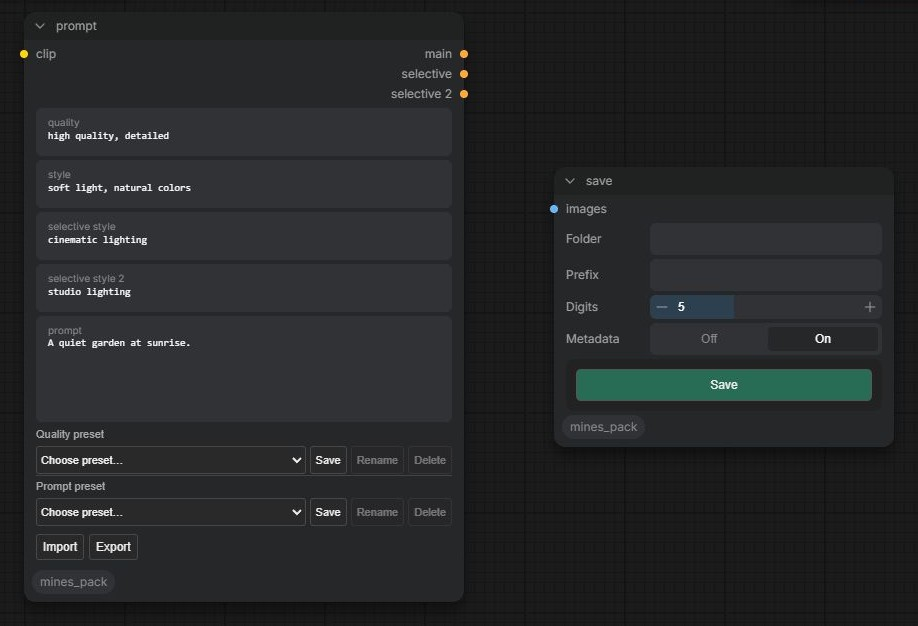
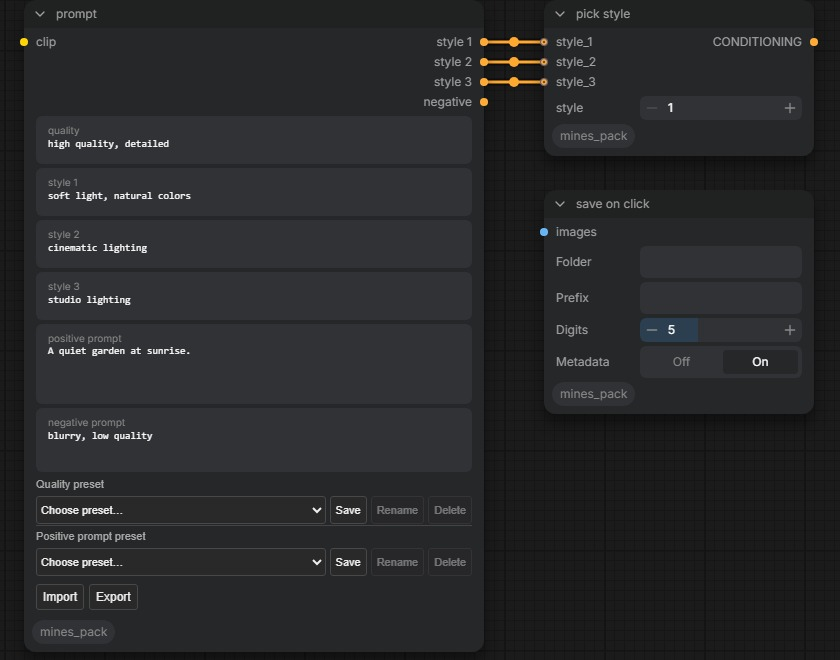
Shorten the README and move details to docs
Add docs/setup.md and docs/nodes.md, retake the screenshot with the current node names, update the package description and the links to mines-I2V.

diff --git a/__init__.py b/__init__.py
@@ -1,4 +1,4 @@
-"""mine's pack: Prompt Sections, manual numbered PNG saving, and the nodes for the Mine's video workflows."""
+"""mine's pack: prompt sections, save on click, inpaint crop and stitch, and the nodes for the Mine's video workflows."""
 from .prompt import PromptSectionsCond, MinesPickStyle
 from .save import NumberedPNGSaver
 from .video import MinesSVIProEndFrame, MinesH3FrameGuides

diff --git a/video.py b/video.py
@@ -1,4 +1,4 @@
-"""Image-to-video helpers for the Mine's video workflows (github.com/kuromatcha/mines-img2vid).
+"""Image-to-video helpers for the Mine's video workflows (github.com/kuromatcha/mines-I2V).
 
 - SVIPro end frame: KJNodes' Wan Image To Video SVIPro, plus an optional end image that is placed on the last
   frame the same way the core Wan First-Last-Frame to Video node does it.

diff --git a/color.py b/color.py
@@ -1,4 +1,4 @@
-"""Color fixes for generated video (Mine's video workflows, github.com/kuromatcha/mines-img2vid).
+"""Color fixes for generated video (Mine's video workflows, github.com/kuromatcha/mines-I2V).
 
 - color drift fix: removes slow color drift over a clip so later frames keep the tone of the first frame; in a
   loop the end matches the start.

diff --git a/docs/nodes.md b/docs/nodes.md
@@ -1,0 +1,153 @@
+# Nodes
+
+All nodes are under **mine's pack** in the node menu.
+
+- [prompt](#prompt) · [pick style](#pick-style) · [save on click](#save-on-click)
+- [inpaint crop](#inpaint-crop) · [inpaint stitch](#inpaint-stitch)
+- [SVIPro end frame](#svipro-end-frame) · [H3 frame guides](#h3-frame-guides) · [color drift fix](#color-drift-fix) · [keep source colors](#keep-source-colors)
+- [Extras](#extras)
+
+## prompt
+
+One node for the whole prompt, split into fields.
+
+| Input | Notes |
+|---|---|
+| `clip` | The text encoder. |
+| `quality` | Shared by all three styles. One line. |
+| `style 1`, `style 2`, `style 3` | One line each. Style 3 is optional. |
+| `positive prompt` | Shared by all three styles. Takes the remaining height of the node. |
+| `negative prompt` | Two lines. |
+
+| Output | Text that is encoded |
+|---|---|
+| `style 1` | quality, style 1, positive prompt |
+| `style 2` | quality, style 2, positive prompt |
+| `style 3` | quality, style 3, positive prompt |
+| `negative` | negative prompt |
+
+Empty fields and trailing commas are dropped, so there are no doubled commas.
+
+**Only what changed runs again.** When you queue, each used output is sent as its own text encode. Editing style 2 therefore re-runs only the samplers fed by style 2, and outputs that are not connected are not encoded at all. The saved workflow is unchanged. This does not apply when one of the text fields is fed by a link: the text is then only known at run time.
+
+### Presets
+
+The **Quality preset** and **Positive prompt preset** rows save, load, rename and delete texts for those two fields.
+
+- Presets are stored in the browser (local storage), not in the workflow and not on disk. Another browser or a cleared browser profile does not have them.
+- **Export** writes all presets to a JSON file. **Import** reads such a file; it is checked completely before anything is changed.
+- Limits: 1000 presets, names up to 100 characters.
+
+## pick style
+
+Passes on one of the prompt node's styles.
+
+| Input | Notes |
+|---|---|
+| `style` | 1, 2 or 3. The number only goes up to the highest connected style. |
+| `style_1`, `style_2`, `style_3` | Connect the prompt node's style outputs. |
+
+The styles that are not picked are not encoded. Picking a style that is not connected gives an error.
+
+## save on click
+
+Keeps the result of a run in a temporary folder and saves it only when you ask.
+
+| Input | Notes |
+|---|---|
+| `images` | The first image of the batch is the one that is saved. |
+| `Folder` | Empty: ComfyUI's output folder. Also accepts a subfolder of it, or a full path. |
+| `Prefix` | Empty gives `00001.png`. `character_` gives `character_00001.png`. No path separators. |
+| `Digits` | Number padding, 1 to 12. Default 5. |
+| `Metadata` | On: the workflow is stored in the PNG, as ComfyUI's own save node does. |
+
+- Press **Save** in the top bar (also available as the command *Save latest image (mine's pack)*). The button is red while the latest image is unsaved and green once it is saved. Changing a setting after saving turns it back to unsaved.
+- The number is the highest existing number in the folder plus one. Existing files are never overwritten.
+- Saving does not re-run the workflow.
+- Unsaved images are kept for 24 hours in ComfyUI's temp folder, and only the latest run of each node is kept.
+- If ComfyUI was started with `--disable-metadata`, images are saved without metadata.
+
+## inpaint crop
+
+Cuts the masked area out with some of its surroundings and scales the cut to the model's working size, so a small area is redrawn at full detail.
+
+| Input | Default | Notes |
+|---|---|---|
+| `image`, `mask` | | White in the mask is the area to redraw. |
+| `megapixels` | 1.0 | Working size of the cut. |
+| `context` | 2.0 | Size of the cut as a multiple of the masked area. Higher: the model sees more of the picture and matches it better. Lower: more detail. |
+| `grow` | 8 | Widens the mask by this many pixels. |
+| `blend` | 16 | Width in pixels of the soft edge when the cut is put back. |
+
+Outputs: `image` (the cut), `mask` (the cut's mask) and `stitch` (for inpaint stitch).
+
+The cut is at least 256 px on each side, at most 2:1 in shape, and its size is a multiple of 16. An empty mask gives an error.
+
+## inpaint stitch
+
+Scales the redrawn cut back and blends it into the original picture.
+
+| Input | Notes |
+|---|---|
+| `stitch` | From inpaint crop. |
+| `image` | The redrawn cut. |
+
+Pixels outside the blend are exactly the original pixels.
+
+## SVIPro end frame
+
+KJNodes' *Wan Image To Video SVIPro* with one extra input.
+
+| Input | Notes |
+|---|---|
+| `positive`, `negative`, `vae`, `length`, `anchor_samples`, `motion_latent_count`, `prev_samples` | As in the KJNodes node. |
+| `end_image` | Optional. Placed on the last frame, the same way ComfyUI's Wan First-Last-Frame node does it. |
+
+Without an end image the result is the same as the KJNodes node. Used by the Long workflow in [mines-I2V](https://github.com/kuromatcha/mines-I2V).
+
+## H3 frame guides
+
+Pins a first frame, a last frame, or both onto MiniMax H3 conditioning, using ComfyUI's own *Add Guide for MiniMax H3*. It works on Reference to Video conditioning, so references and fixed frames can be used in one clip.
+
+| Input | Notes |
+|---|---|
+| `positive`, `vae`, `latent` | |
+| `first_frame` | Optional. Pinned at frame 0. |
+| `last_frame` | Optional. Pinned at the last frame. |
+
+A frame that is not connected, or whose Load Image node is bypassed (Ctrl+B), is skipped. Used by the Hybrid workflow in mines-I2V.
+
+## color drift fix
+
+Video models slowly drift in brightness, warmth, saturation and skin tone over a clip. This node removes that slow change and leaves motion and short flashes alone.
+
+| Input | Default | Notes |
+|---|---|---|
+| `images` | | The video frames. |
+| `strength` | 1.0 | 1 removes the measured drift, 0 leaves the video unchanged. Above 1 overcorrects. |
+| `smooth_frames` | 16 | Changes shorter than about this many frames (flashes) are kept. Slower drift is removed. |
+| `image_ref` | | Optional. Also matches the first frame to this image, e.g. the start image. |
+
+How it works: every frame is compared with the first frame on the pixels that still match it (background, parts that did not move). From those pixels it fits a tone curve per color channel, smooths the curves over time and maps each frame back. The first frame is unchanged. In a loop the last frames return to the first pose, so the end gets the tone of the start and the loop point does not jump.
+
+Measured on a loop test: background drift before the loop point 1.32 → 0.16 ΔE.
+
+If the video contains broken (NaN) frames, the node stops with an error that says so. That is a sampling problem, not a color problem.
+
+## keep source colors
+
+RTX Video Super Resolution shifts colors slightly, and by a different amount on each frame. In a video that shows as a small flicker, most of all at a loop point.
+
+| Input | Notes |
+|---|---|
+| `images` | The upscaled frames. |
+| `source` | The same frames before upscaling. The frame counts must match. |
+
+The upscaled frame keeps its fine detail and takes everything coarser, colors included, from the source frame. Nothing is fitted, so nothing can vary from frame to frame.
+
+Measured on an 81-frame clip: color error 0.19 → 0.05 ΔE, white background 0.08 → 0.00 ΔE, fine detail kept (−1%).
+
+## Extras
+
+- **Subgraph settings layout.** When the prompt node's fields are promoted to a subgraph's settings node, they keep their layout: `quality`, `style` and `style_1`–`style_3` take one line, `negative_prompt` two, and other text fields share the rest.
+- **WinError 10054.** On Windows, ComfyUI logs a *ConnectionResetError [WinError 10054]* traceback when a browser tab closes or reloads. It is harmless. The pack hides that one traceback; every other error is still shown.

diff --git a/README.md b/README.md
@@ -1,32 +1,35 @@
 # mines-pack
 
-Shows as **mine's pack** in ComfyUI.
+A small ComfyUI node pack: a sectioned prompt node with presets, a save-on-click image saver, inpaint crop and stitch, and the video helpers used by the [mines-I2V](https://github.com/kuromatcha/mines-I2V) workflows. Shows as **mine's pack** in the node menu.
 
-![prompt and save](assets/showcase.jpg)
+![prompt and save on click nodes](assets/showcase.jpg)
 
-- **prompt** — quality, style 1–3, a positive prompt and a two-line negative prompt, with presets. Outputs **style 1**, **style 2** and **style 3** (quality + that style + positive prompt) and **negative**.
-- **pick style** — passes on style 1, 2 or 3 of the prompt node by number; the styles not picked are not encoded. The number only goes up to the highest connected style.
-- **save on click** — adds a **Save** button to the top bar: a run is only kept until you click it, then the picked image is saved as a numbered PNG (00001.png…), with optional metadata.
+## Nodes
 
-For the [Mine's video workflows](https://github.com/kuromatcha/mines-img2vid):
+| Node | Group | What it does |
+|---|---|---|
+| **prompt** | prompt | Quality, three styles, a positive and a negative prompt in one node, with presets. One output per style, plus the negative. |
+| **pick style** | prompt | Passes on style 1, 2 or 3 by number. The styles not picked are never encoded. |
+| **save on click** | image | Nothing is written to disk until you press **Save** in the top bar. Saves numbered PNGs (`00001.png`, …). |
+| **inpaint crop** | inpaint | Cuts the masked area out with its surroundings and scales it to the model's working size. |
+| **inpaint stitch** | inpaint | Blends the redrawn cut back into the original picture with a soft edge. |
+| **SVIPro end frame** | video | KJNodes' Wan Image To Video SVIPro with an optional end image. |
+| **H3 frame guides** | video | Pins an optional first and last frame onto MiniMax H3 conditioning. |
+| **color drift fix** | video | Removes slow color drift, so later frames keep the tone of the first frame. |
+| **keep source colors** | video | Gives upscaled frames back the colors they had before upscaling. |
 
-- **SVIPro end frame** — KJNodes' Wan Image To Video SVIPro with an optional end image on the last frame.
-- **H3 frame guides** — pins an optional first frame and an optional last frame onto MiniMax H3 conditioning (ComfyUI's Add Guide for MiniMax H3), so a Reference to Video clip can also start and end on given pictures. A frame whose Load Image is bypassed (Ctrl+B) is skipped.
-- **color drift fix** — removes slow color drift (brightness, warmth, saturation, skin tone) so later frames keep the tone of the first frame; in a loop the end matches the start. Motion and short flashes are left alone.
-- **keep source colors** — gives upscaled frames back the exact colors of the frames before upscaling (RTX upscaling shifts them slightly, differently per frame). Keeps the upscaler's fine detail and takes the colors pixel by pixel from the source frame.
+On Windows the pack also hides the harmless *WinError 10054* traceback that ComfyUI logs when a browser tab closes.
 
-For the Mine's Anima Inpaint workflow:
-
-- **inpaint crop** — cuts the masked area out with its surroundings and scales it to the model's working size, so a small area is redrawn at full detail.
-- **inpaint stitch** — scales the redrawn cut back and blends it into the original picture with a soft edge. Pixels outside the blend are unchanged.
-- On a subgraph's settings node, the prompt node's fields keep its layout when promoted: `quality`, `style` and `style_1`–`style_3` one line, `negative_prompt` two lines.
-
-On Windows the pack also hides the harmless *WinError 10054* traceback ComfyUI logs when a browser tab closes.
-
-Clone into ComfyUI's `custom_nodes` folder, then restart ComfyUI:
+## Install
 
 ```sh
+cd ComfyUI/custom_nodes
 git clone https://github.com/kuromatcha/mines-pack.git
 ```
 
-Each output is encoded separately when you queue, so editing one style only re-runs the samplers that use it. This doesn't apply if a text box is fed by a link.
+Restart ComfyUI. No extra Python packages are needed. Full steps, updating and checks: [docs/setup.md](docs/setup.md).
+
+## Docs
+
+- [Setup](docs/setup.md): requirements, install, update, check that it works, remove
+- [Nodes](docs/nodes.md): every input and output, presets, how saving works, the measurements behind the color nodes

diff --git a/docs/setup.md b/docs/setup.md
@@ -1,0 +1,51 @@
+# Setup
+
+## Requirements
+
+- **ComfyUI 0.45.3 or newer.** Tested on 0.45.4 (Comfy Desktop, Python 3.13, PyTorch 2.12.1).
+  Only **H3 frame guides** needs a version that recent: it uses ComfyUI's built-in MiniMax H3 nodes. The other nodes are not tied to a version.
+- No extra Python packages. The pack uses `torch`, `kornia`, `Pillow`, `numpy` and `aiohttp`, which all come with ComfyUI.
+- No other node pack. **SVIPro end frame** carries its own copy of the KJNodes logic, so KJNodes is not needed for it.
+
+## Install
+
+1. Open a terminal in `ComfyUI/custom_nodes/`.
+2. Clone the pack:
+   ```sh
+   git clone https://github.com/kuromatcha/mines-pack.git
+   ```
+3. Restart ComfyUI.
+
+The pack is not listed in ComfyUI-Manager. In Manager you can still use **Install via Git URL** with the address above.
+
+## Check that it works
+
+1. Double-click the canvas and search for `mine's pack`, or open the node menu: the nine nodes are under **mine's pack → prompt / image / inpaint / video**.
+2. A **Save** button appears in the top bar. It is dimmed until a workflow with a **save on click** node has run.
+
+## Update
+
+```sh
+cd ComfyUI/custom_nodes/mines-pack
+git pull
+```
+
+Restart ComfyUI, and reload the browser tab so the new front-end files are loaded.
+
+## Run the tests (optional)
+
+The tests need only ComfyUI's Python, not a running ComfyUI. From the pack's folder:
+
+```sh
+python tests/test_color.py
+python tests/test_inpaint.py
+python tests/test_png.py
+python tests/test_prompt.py
+python tests/test_video.py
+```
+
+Use the Python that ComfyUI runs on (for Comfy Desktop: `ComfyUI/.venv/Scripts/python.exe`).
+
+## Remove
+
+Delete the `mines-pack` folder from `ComfyUI/custom_nodes/` and restart ComfyUI. Prompt presets are stored in the browser (see [Nodes](nodes.md#presets)), so export them first if you want to keep them.
